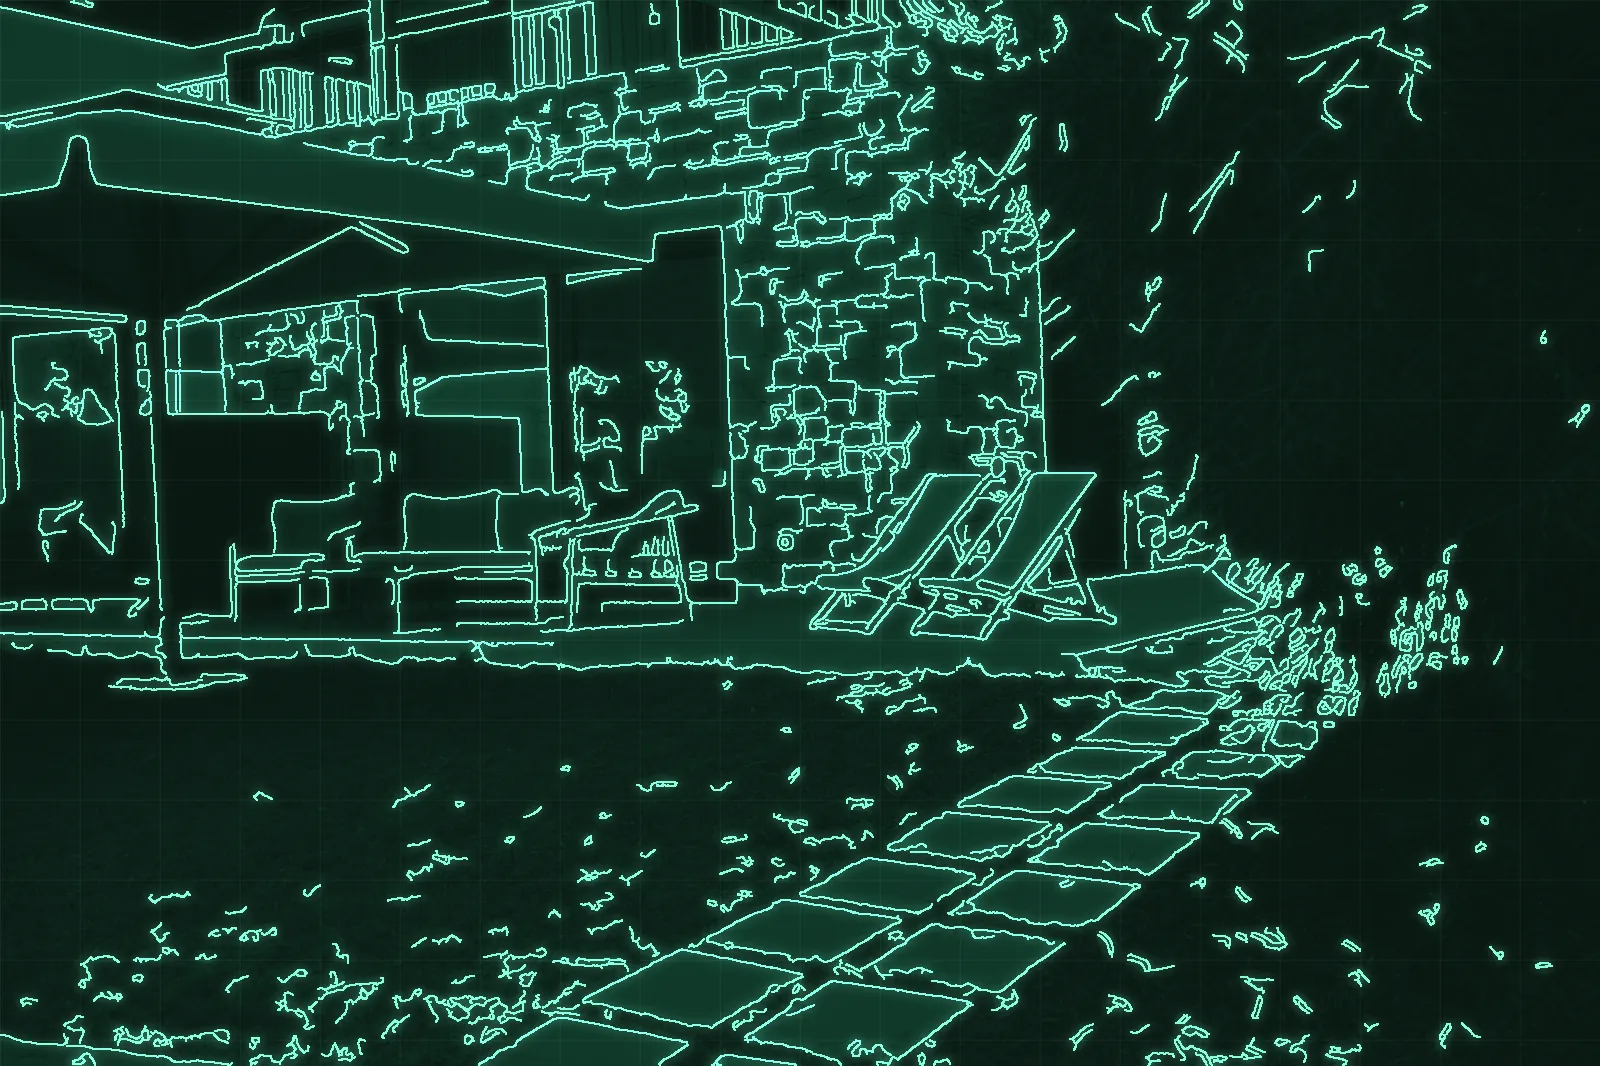
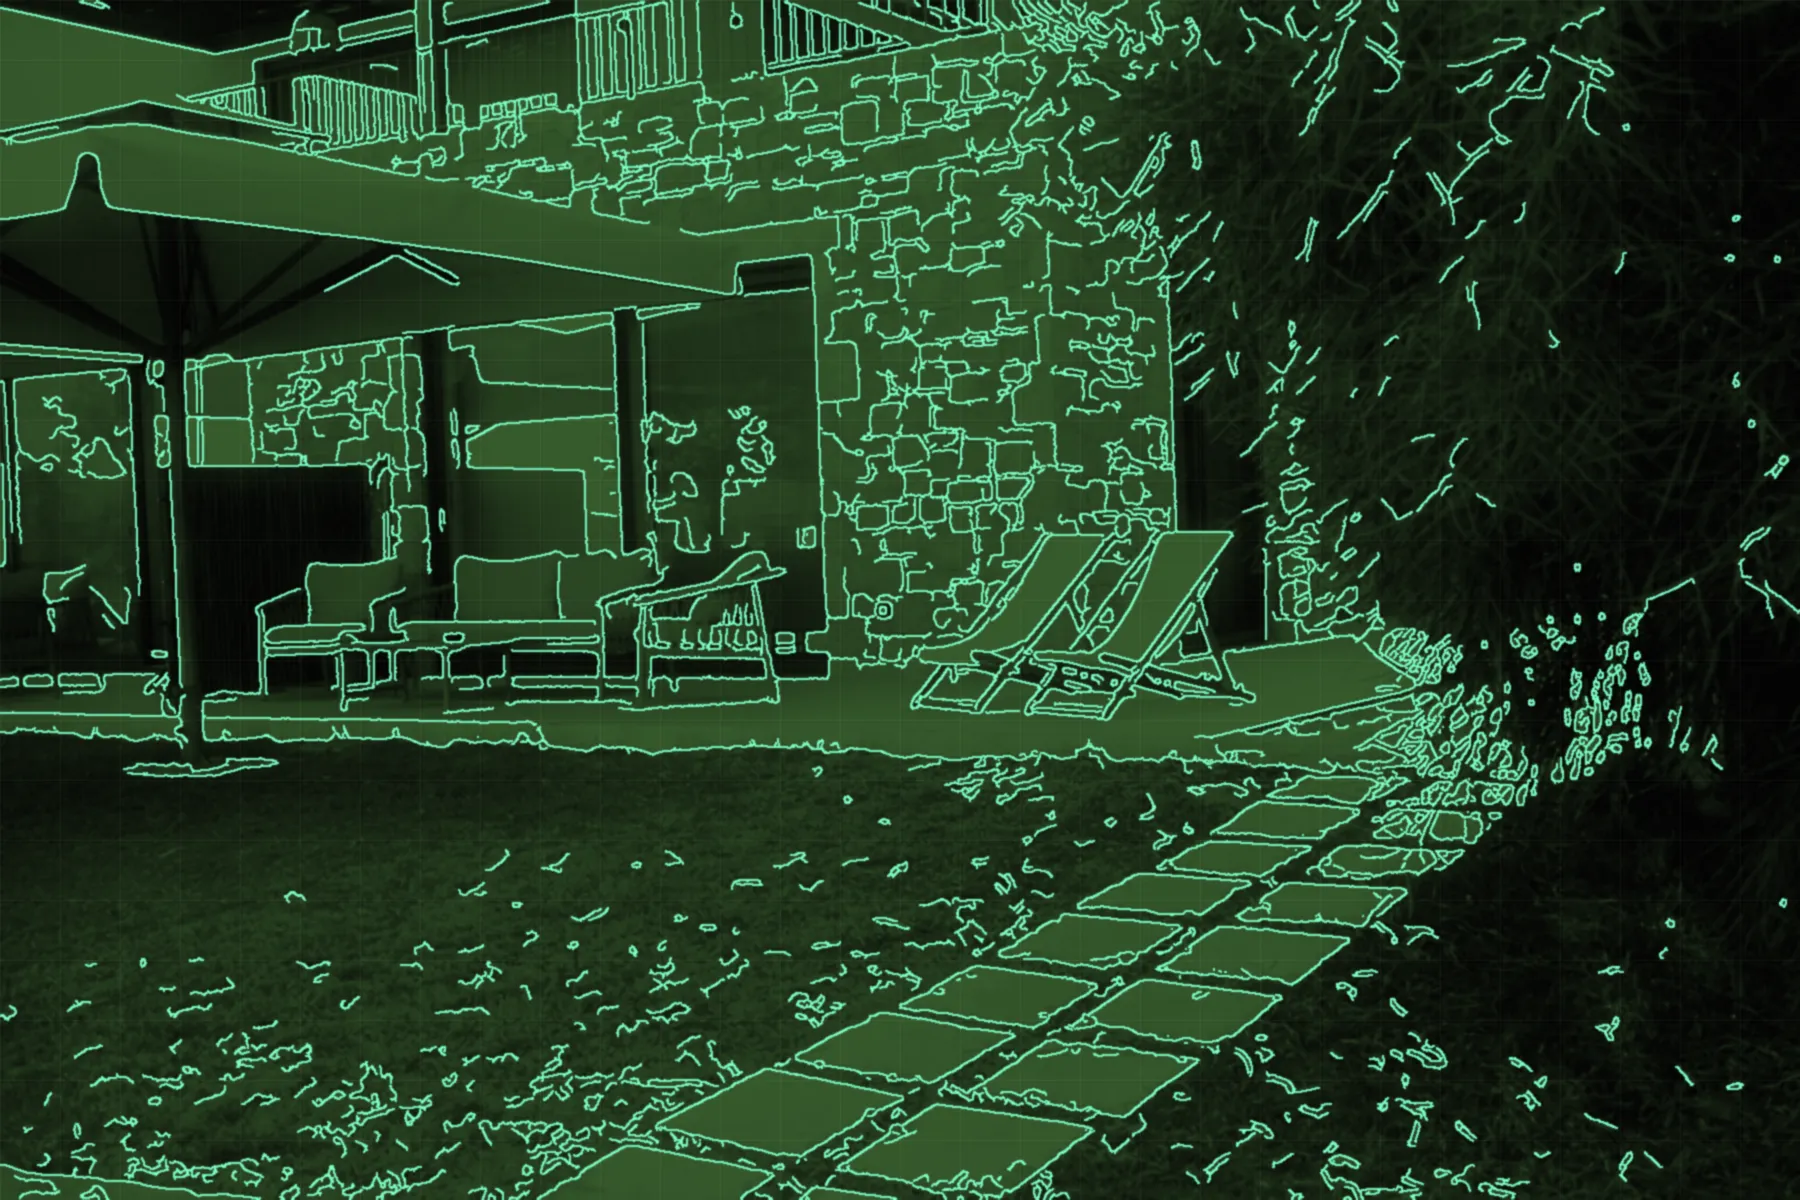
SOCAP plan: clean architect-style blueprints, Plan/Realisation label, longer plan phase, mobile callouts
Claude-Session: https://claude.ai/code/session_01ECoQc9EGbnk916TVJUxX8a

diff --git a/socap-paysage/assets/js/site.js b/socap-paysage/assets/js/site.js
@@ -107,7 +107,7 @@
 
   /* ------------------------------------------------------------ « plan -> photo » : le scroll révèle la vraie photo derrière le tracé */
   var plan = $("#plan"), steps = $$("#steps li"), planFill = $("#planFill"), hudState = $("#hudState"), HUD = ["ÉTAPE 01 · ÉTUDE", "ÉTAPE 02 · TERRAIN", "ÉTAPE 03 · MATÉRIAUX", "ÉTAPE 04 · VÉGÉTAL & EAU", "ÉTAPE 05 · SUIVI"], curStep = -1;
-  var figs = $$("#stage figure"), scanEl = $("#scan"), calsEl = $("#cals"), curFig = -1;
+  var stLab = $("#stLab"), figs = $$("#stage figure"), scanEl = $("#scan"), calsEl = $("#cals"), curFig = -1;
   var CALS = [
     [["Bassin d’ornement", 50, 44], ["Haies taillées", 18, 72], ["Allée sablée", 82, 30]],
     [["Maçonnerie paysagère", 30, 82], ["Topiaires", 52, 38], ["Haie persistante", 78, 24]],
@@ -117,12 +117,13 @@
   ];
   function planProgress(y) { return clamp((y - plan.offsetTop) / Math.max(1, plan.offsetHeight - innerHeight), 0, 1); }
   function ease(t) { t = clamp(t, 0, 1); return t < .5 ? 4 * t * t * t : 1 - Math.pow(-2 * t + 2, 3) / 2; }
-  function buildCals(f) { calsEl.innerHTML = ""; CALS[f].forEach(function (c, i) { var d = document.createElement("div"); d.className = "cal"; d.style.left = c[1] + "%"; d.style.top = c[2] + "%"; d.style.setProperty("--i", i); d.innerHTML = "<i></i><span>" + c[0] + "</span>"; calsEl.appendChild(d); }); }
+  function buildCals(f) { calsEl.innerHTML = ""; CALS[f].forEach(function (c, i) { var d = document.createElement("div"); d.className = "cal"; d.style.left = c[1] + "%"; d.style.top = (lite ? 14 + c[2] * 0.3 : c[2]) + "%"; if (c[1] > 55) d.classList.add("l"); d.style.setProperty("--i", i); d.innerHTML = "<i></i><span>" + c[0] + "</span>"; calsEl.appendChild(d); }); }
   function stageUpdate(p) {
     var n = figs.length, f = Math.min(n - 1, Math.floor(p * n)), t = p * n - f, k = ease((t - 0.04) / 0.5);
     if (f !== curFig) { curFig = f; figs.forEach(function (fg, i) { fg.classList.toggle("on", i === f); }); buildCals(f); }
-    var cut = (1 - k) * 100; if (lite) { var rv = k > 0.35; if (figs[f].classList.contains("rev") !== rv) figs[f].classList.toggle("rev", rv); } else figs[f].style.setProperty("--cut", cut.toFixed(2) + "%"); calsEl.classList.toggle("in", k > 0.92);
+    var cut = (1 - k) * 100; if (lite) { var rv = t > 0.48; if (figs[f].classList.contains("rev") !== rv) figs[f].classList.toggle("rev", rv); } else figs[f].style.setProperty("--cut", cut.toFixed(2) + "%"); calsEl.classList.toggle("in", lite ? t > 0.62 : k > 0.92);
     if (scanEl && !lite) { scanEl.style.left = cut.toFixed(2) + "%"; scanEl.style.opacity = k > 0.02 && k < 0.985 ? 1 : 0; }
+    var labOn = lite ? t > 0.48 : k > 0.5; if (stLab && stLab.dataset.on !== String(labOn)) { stLab.dataset.on = String(labOn); stLab.classList.toggle("real", labOn); stLab.lastChild.textContent = labOn ? "Réalisation" : "Plan d’étude"; }
     var s = Math.min(steps.length - 1, Math.floor(p * steps.length)); planFill.style.transform = "scaleY(" + p + ")";
     if (s !== curStep) { curStep = s; steps.forEach(function (li, i) { li.classList.toggle("on", i === s); }); if (hudState) hudState.textContent = HUD[s]; }
   }

diff --git a/socap-paysage/index.html b/socap-paysage/index.html
@@ -17,7 +17,7 @@
 <link rel="preload" href="assets/fonts/unbounded-latin.woff2" as="font" type="font/woff2" crossorigin>
 <link rel="preload" href="assets/fonts/manrope-latin.woff2" as="font" type="font/woff2" crossorigin>
 <link rel="preload" href="assets/img/hs1.webp" as="image" media="(min-width: 701px)">
-<link rel="stylesheet" href="assets/css/site.css?v=9">
+<link rel="stylesheet" href="assets/css/site.css?v=11">
 <script>document.documentElement.className="js";</script>
 <script type="application/ld+json">{"@context":"https://schema.org","@type":"LandscapingBusiness","name":"SOCAP — Société Châtillonnaise d’Aménagement et de Paysage","description":"Paysagiste dans l’Ain : conception, réalisation et entretien de jardins, terrasses, allées, bassins, clôtures, plantations.","telephone":"+33474550098","faxNumber":"+33474552756","foundingDate":"1983","address":{"@type":"PostalAddress","streetAddress":"Les Lazares","postalCode":"01400","addressLocality":"Châtillon-sur-Chalaronne","addressCountry":"FR"},"areaServed":["Ain","Rhône","Mâconnais"],"numberOfEmployees":{"@type":"QuantitativeValue","value":10}}</script>
 </head>
@@ -153,7 +153,7 @@
       <figure><picture><source media="(max-width: 900px)" srcset="assets/img/bp4-m.webp"><img class="bp" src="assets/img/bp4.webp" alt="" loading="lazy"></picture><picture><source media="(max-width: 900px)" srcset="assets/img/pl4-m.webp"><img class="ph" src="assets/img/pl4.webp" alt="" loading="lazy"></picture></figure>
       <figure><picture><source media="(max-width: 900px)" srcset="assets/img/bp5-m.webp"><img class="bp" src="assets/img/bp5.webp" alt="" loading="lazy"></picture><picture><source media="(max-width: 900px)" srcset="assets/img/pl5-m.webp"><img class="ph" src="assets/img/pl5.webp" alt="" loading="lazy"></picture></figure>
       <div class="cals" id="cals"></div>
-      <i class="scan" id="scan"></i><div class="stage__shade"></div>
+      <p class="stage__lab" id="stLab" aria-hidden="true"><i></i><span>Plan d’étude</span></p><i class="scan" id="scan"></i><div class="stage__shade"></div>
     </div>
     <div class="plan__hud" aria-hidden="true">
       <span class="tick tl"></span><span class="tick tr"></span><span class="tick bl"></span><span class="tick br"></span>
@@ -375,7 +375,7 @@
 
 <script src="assets/vendor/lenis.min.js"></script>
 <script src="assets/js/hero.js?v=7"></script>
-<script src="assets/js/site.js?v=5"></script>
+<script src="assets/js/site.js?v=7"></script>
 <script src="assets/js/studio.js?v=1" defer></script>
 </body>
 </html>

diff --git a/socap-paysage/assets/css/site.css b/socap-paysage/assets/css/site.css
@@ -305,3 +305,9 @@ html.lite .svc__imgs img { transform: none; }
 .hero__media.fb .hero__slide { opacity: 0; transition: opacity 1.4s ease; animation: none !important; backface-visibility: hidden; }
 .hero__media.fb .hero__slide.on { opacity: 1; animation: kbm 9.5s ease-out both !important; } .hero__media.fb .hero__slide.top { z-index: 1; }
 @keyframes kbm { from { transform: scale(1.02); } to { transform: scale(1.08); } }
+
+.stage__lab { position: absolute; z-index: 3; top: calc(var(--hh) + 1.1rem); right: var(--pad); display: inline-flex; align-items: center; gap: .6rem; padding: .5rem .95rem; border-radius: 99px; font: 700 .72rem var(--f-b); letter-spacing: .18em; text-transform: uppercase; color: var(--mint); background: rgba(3, 12, 8, .72); box-shadow: inset 0 0 0 1px var(--line2); }
+.stage__lab i { width: 8px; height: 8px; border-radius: 50%; background: var(--mint); box-shadow: 0 0 10px var(--mint); transition: background .4s, box-shadow .4s; } .stage__lab.real { color: var(--lime); } .stage__lab.real i { background: var(--lime); box-shadow: 0 0 10px var(--lime); }
+html.lite .stage .ph { transition: opacity 1.2s ease; }
+
+.cal.l { flex-direction: row-reverse; transform: translate(-100%, 8px); } .cals.in .cal.l { transform: translate(-100%, 0); }
